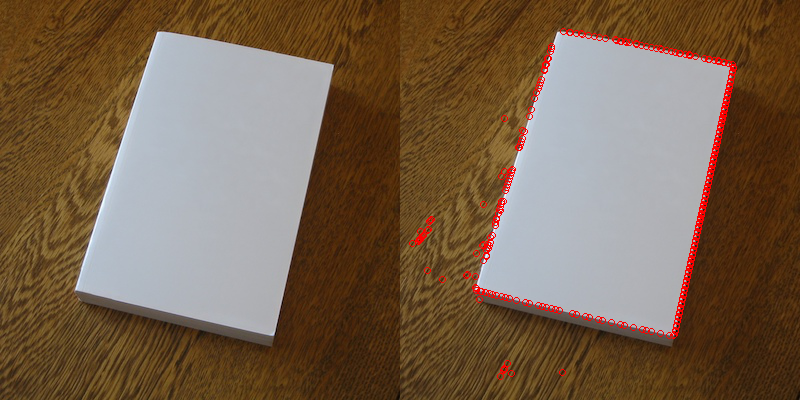
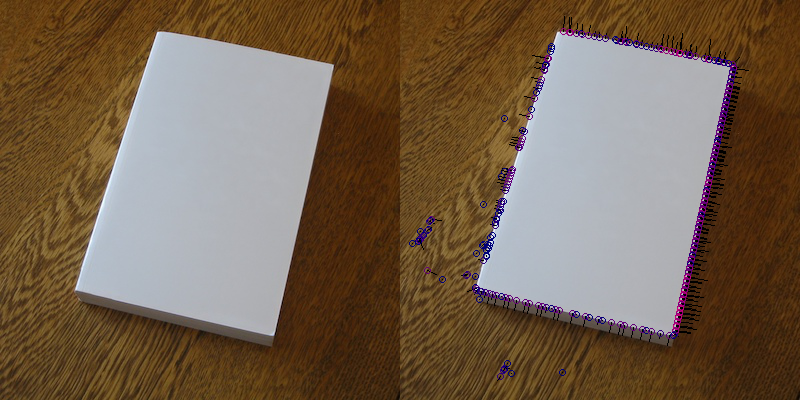
refactor fast moment calculations:

diff --git a/src/fast.rs b/src/fast.rs
@@ -1,7 +1,18 @@
-use image::{GenericImageView, ImageError, DynamicImage, ImageBuffer, Rgb};
+use image::{GenericImageView, ImageError, DynamicImage, ImageBuffer, Rgb, GrayImage};
+use imageproc::drawing::draw_line_segment_mut;
+use cgmath::prelude::*;
+use cgmath::{Rad};
 
 // Types
 pub type Point = (i32, i32);
+
+// Make a trait for FastKeypoint/OrientedFastKeypoint
+#[derive(Debug)]
+pub struct FastKeypoint {
+    pub location: Point,
+    pub score: u32,
+    pub moment: Moment
+}
 
 #[derive(Debug)]
 pub struct FastContext {
@@ -9,7 +20,7 @@ pub struct FastContext {
     fast: Vec<u8>,
     slow: Vec<u8>,
     radius: u32,
-    n: u8
+    n: u32
 }
 
 #[allow(non_camel_case_types)]
@@ -50,7 +61,7 @@ impl FastType {
 }
 
 // Consts
-const DEFAULT_THRESHOLD:i16 = 50;
+const DEFAULT_THRESHOLD:i16 = 40;
 
 // Methods
 fn get_circle_slice(ctx: &FastContext, x: i32, y:i32) -> Vec<Point> {
@@ -61,12 +72,12 @@ fn get_circle_slice(ctx: &FastContext, x: i32, y:i32) -> Vec<Point> {
         .collect()
 }
 
-pub fn fast(img: &image::GrayImage, fast_type: Option<FastType>, threshold: Option<i16>) -> Result<Vec<Point>, ImageError> {
+pub fn fast(img: &image::GrayImage, fast_type: Option<FastType>, threshold: Option<i16>) -> Result<Vec<FastKeypoint>, ImageError> {
     let threshold = threshold.unwrap_or(DEFAULT_THRESHOLD);
     let fast_type = fast_type.unwrap_or(FastType::TYPE_9_16);
 
     let ctx = fast_type.get_context();
-    let indices_len = (ctx.fast.len() + ctx.slow.len()) as u8;
+    let indices_len = (ctx.fast.len() + ctx.slow.len()) as u32;
     let max_misses = indices_len - ctx.n;
 
     let mut fast_keypoint_matches = Vec::new();
@@ -86,7 +97,7 @@ pub fn fast(img: &image::GrayImage, fast_type: Option<FastType>, threshold: Opti
             // TODO: use unsafe variant or direct buffer addressing
             //
 
-            let mut similars = 0;
+            let mut similars:u32 = 0;
             for index in 0..ctx.fast.len() {
                 let diff = (circle_pixels[ctx.fast[index] as usize] - center_pixel).abs();
                 if diff < threshold {
@@ -108,18 +119,112 @@ pub fn fast(img: &image::GrayImage, fast_type: Option<FastType>, threshold: Opti
                 }
             }
 
-            fast_keypoint_matches.push((x as i32, y as i32));
+            fast_keypoint_matches.push( FastKeypoint {
+                location: (x as i32, y as i32),
+                score: indices_len - similars,
+                moment: Moment {
+                    centroid: (0, 0),
+                    moment: (0, 0),
+                    rotation: 0.0
+                }
+            });
         }
     }
 
     Ok(fast_keypoint_matches)
 }
 
-pub fn draw_keypoints(img: &mut image::RgbImage, vec: &Vec<Point>) {
+//
+// FAST Moment Calculations
+//
+
+#[derive(Debug)]
+pub struct Moment {
+    centroid: Point,
+    moment: Point,
+    rotation: f64
+}
+
+fn patch_moment(img: &GrayImage, x:u32, y:u32, x_moment:u32, y_moment:u32, moment_radius:Option<u32>) -> f32 {
+    let moment_radius = moment_radius.unwrap_or(3);
+
+    if x < moment_radius || y < moment_radius {
+        return 1.0;
+    }
+
+    let mut patch_sum:u32 = 0;
+    for mx in (x-moment_radius)..=(x+moment_radius) {
+        for my in (y-moment_radius)..=(y+moment_radius) {
+            patch_sum += mx.pow(x_moment) * my.pow(y_moment) * img.get_pixel(mx, my).0[0] as u32;
+        }
+    }
+
+    patch_sum as f32
+}
+
+fn moment_centroid(img: &GrayImage, x:i32, y:i32, moment_radius:Option<u32>) -> Moment {
+    // TODO weed out the repeated calculations here
+    let p_m = patch_moment(img, x as u32, y as u32, 0, 0, moment_radius);
+    let p_x = patch_moment(img, x as u32, y as u32, 1, 0, moment_radius);
+    let p_y = patch_moment(img, x as u32, y as u32, 0, 1, moment_radius);
+
+    let (mx, my) = (
+        (p_x/p_m),
+        (p_y/p_m)
+    );
+
+    let x_diff = (x as f32 - mx) as f64;
+    let y_diff = (y as f32 - my) as f64;
+
+    Moment {
+        centroid: (x as i32, y as i32),
+        moment: (mx.round() as i32, my.round() as i32),
+        rotation: y_diff.atan2(x_diff)
+    }
+}
+
+pub fn calculate_fast_centroids(img: &GrayImage, fast_keypoints: &mut Vec<FastKeypoint>) {
+    for keypoint in fast_keypoints.iter_mut() {
+        keypoint.moment = moment_centroid(img, keypoint.location.0, keypoint.location.1, None);
+    }
+}
+
+pub fn draw_keypoints(img: &mut image::RgbImage, vec: &Vec<FastKeypoint>) {
     let ctx = FastType::TYPE_9_16.get_context();
     let color = [255, 0, 0];
-    for (x, y) in vec {
-        for (c_x, c_y) in get_circle_slice(&ctx, *x, *y) {
+    for k in vec {
+        for (c_x, c_y) in get_circle_slice(&ctx, k.location.0, k.location.1) {
+            img.get_pixel_mut(c_x as u32, c_y as u32).0 = color;
+        }
+    }
+}
+
+pub fn draw_moments(img: &mut image::RgbImage, vec: &Vec<FastKeypoint>) {
+    let ctx = FastType::TYPE_9_16.get_context();
+
+    for k in vec {
+        let score = (k.score - 12) as u8;
+        let color = [50 * score, 0, 122];
+
+
+        let start_point = k.location;
+
+        let rotation_radians = Rad(k.moment.rotation);
+        let dist = (score * 5) as f64;
+
+        let end_point = (
+            start_point.0 as f32 + (dist * Rad::cos(rotation_radians)).round() as f32,
+            start_point.1 as f32 + (dist * Rad::sin(rotation_radians)).round() as f32
+        );
+
+        draw_line_segment_mut(
+            img,
+            (start_point.0 as f32, start_point.1 as f32),
+            end_point,
+            Rgb([0, 0, 0])
+        );
+
+        for (c_x, c_y) in get_circle_slice(&ctx, k.location.0, k.location.1) {
             img.get_pixel_mut(c_x as u32, c_y as u32).0 = color;
         }
     }

diff --git a/src/orb.rs b/src/orb.rs
@@ -1,66 +1,14 @@
 use image::{ImageError, GenericImageView, DynamicImage, ImageBuffer, Rgb, GrayImage, ImageFormat, RgbImage};
 use image::imageops::{resize, FilterType, blur, filter3x3};
-use imageproc::drawing::draw_line_segment_mut;
 use rand::{Rng, thread_rng};
 // Move to rand_distr crate (rand::_::Normal is deprecated)
 use rand::distributions::{Normal, Distribution};
 use bitvector::BitVector;
 
 use crate::fast;
-use fast::Point;
+use fast::{Point, FastKeypoint, Moment, };
 
 const DEFAULT_BRIEF_LENGTH:usize = 128;
-
-fn patch_moment(img: &GrayImage, x:u32, y:u32, x_moment:u32, y_moment:u32, moment_radius:Option<u32>) -> f32 {
-    let moment_radius = moment_radius.unwrap_or(3);
-
-    if x < moment_radius || y < moment_radius {
-        return 1.0;
-    }
-
-    let mut patch_sum:u32 = 0;
-    for mx in (x-moment_radius)..=(x+moment_radius) {
-        for my in (y-moment_radius)..=(y+moment_radius) {
-            patch_sum += mx.pow(x_moment) * my.pow(y_moment) * img.get_pixel(mx, my).0[0] as u32;
-        }
-    }
-
-    patch_sum as f32
-}
-
-//
-// Moment Calculations
-//
-
-#[derive(Debug)]
-pub struct Moment {
-    p: Point,
-    x: u32,
-    y: u32,
-    rot: f64
-}
-
-fn moment_centroid(img: &GrayImage, x:u32, y:u32, moment_radius:Option<u32>) -> Moment {
-    // TODO weed out the repeated calculations here
-    let p_m = patch_moment(img, x as u32, y as u32, 0, 0, moment_radius);
-    let p_x = patch_moment(img, x as u32, y as u32, 1, 0, moment_radius);
-    let p_y = patch_moment(img, x as u32, y as u32, 0, 1, moment_radius);
-
-    let (mx, my) = (
-        (p_x/p_m),
-        (p_y/p_m)
-    );
-
-    let x_diff = (x as f32 - mx) as f64;
-    let y_diff = (y as f32 - my) as f64;
-
-    Moment {
-        p: (x as i32, y as i32),
-        x: mx.round() as u32,
-        y: my.round() as u32,
-        rot: y_diff.atan2(x_diff)
-    }
-}
 
 //
 // Sobel Calculations
@@ -115,7 +63,7 @@ fn brief_distance(brief1: &Brief, brief2: &Brief) -> usize {
     brief1.b.intersection(&brief2.b).len()
 }
 
-fn brief(blurred_img: &GrayImage, vec: &Vec<Moment>, brief_length: Option<usize>, n: Option<usize>) -> Vec<Brief> {
+fn brief(blurred_img: &GrayImage, vec: &Vec<FastKeypoint>, brief_length: Option<usize>, n: Option<usize>) -> Vec<Brief> {
     let brief_length = brief_length.unwrap_or(DEFAULT_BRIEF_LENGTH);
     let n = n.unwrap_or(5);
 
@@ -127,17 +75,17 @@ fn brief(blurred_img: &GrayImage, vec: &Vec<Moment>, brief_length: Option<usize>
     let height:i32 = blurred_img.height() as i32;
 
     vec.into_iter()
-        .map(|m| {
+        .map(|k| {
             let mut bit_vec = BitVector::new(brief_length);
 
             for i in 0..bit_vec.capacity() {
                 let mut p1 = (
-                    m.p.0 + inner_dist.sample(&mut thread_rng()).round() as i32,
-                    m.p.1 + inner_dist.sample(&mut thread_rng()).round() as i32
+                    k.location.0 + inner_dist.sample(&mut thread_rng()).round() as i32,
+                    k.location.1 + inner_dist.sample(&mut thread_rng()).round() as i32
                 );
                 let mut p2 = (
-                    m.p.0 + outer_dist.sample(&mut thread_rng()).round() as i32,
-                    m.p.1 + outer_dist.sample(&mut thread_rng()).round() as i32
+                    k.location.0 + outer_dist.sample(&mut thread_rng()).round() as i32,
+                    k.location.1 + outer_dist.sample(&mut thread_rng()).round() as i32
                 );
 
                 p1.0 = std::cmp::max(std::cmp::min(p1.0, width - 1), 0);
@@ -154,8 +102,8 @@ fn brief(blurred_img: &GrayImage, vec: &Vec<Moment>, brief_length: Option<usize>
             }
 
             Brief {
-                x: m.p.0,
-                y: m.p.1,
+                x: k.location.0,
+                y: k.location.1,
                 b: bit_vec
             } 
         })
@@ -167,29 +115,18 @@ fn brief(blurred_img: &GrayImage, vec: &Vec<Moment>, brief_length: Option<usize>
 //
 
 // load image and pass around reference to image instead of loading from path
-pub fn orb(img: &GrayImage) -> Result<Vec<Moment>, ImageError> {
-    let keypoints = fast::fast(img, None, None)?;
+pub fn orb(img: &GrayImage) -> Result<Vec<FastKeypoint>, ImageError> {
+    // let keypoints = fast::fast(img, None, None)?;
 
-    let centroids = keypoints
-        .into_iter()
-        .map(|(x, y)| moment_centroid(&img, x as u32, y as u32, None))
-        .collect::<Vec<Moment>>();
+    // let centroids = keypoints
+    //     .into_iter()
+    //     .map(|k| moment_centroid(&img, x as u32, y as u32, None))
+    //     .collect::<Vec<Moment>>();
 
-    let blurred_img = blur(img, 2.5);
-    let brief_descriptors = brief(&blurred_img, &centroids, None, None);
+    // let blurred_img = blur(img, 2.5);
+    // let brief_descriptors = brief(&blurred_img, &centroids, None, None);
+    // Ok(centroids)
+    
+    let centroids:Vec<FastKeypoint> = vec![];
     Ok(centroids)
-}
-
-pub fn draw_moments(img: &mut RgbImage, vec: &Vec<Moment>) {
-    for moment in vec {
-        draw_line_segment_mut(
-            img,
-            (moment.p.0 as f32, moment.p.1 as f32), 
-            (moment.x as f32, moment.y as f32),
-            Rgb([122, 122, 122])
-        );
-
-        img.get_pixel_mut(moment.x as u32, moment.y as u32).0 = [255, 255, 255];
-        img.get_pixel_mut(moment.p.0 as u32, moment.p.1 as u32).0 = [0, 0, 0];
-    }
 }

diff --git a/src/main.rs b/src/main.rs
@@ -4,25 +4,21 @@ mod orb;
 mod fast;
 
 fn main() {
-    println!("{:?}", test_orb());
+    println!("{:?}", test_fast());
 }
 
 fn test_fast() -> Result<bool, image::ImageError> {
-    let mut img = image::open("example/run.jpg")?;
+    let mut img = image::open("example/test.jpg")?;
     let mut gray_img = img.to_luma();
     let mut img = img.to_rgb();
-    let keypoints = fast::fast(&gray_img, Some(fast::FastType::TYPE_9_16), None).unwrap();
-    fast::draw_keypoints(&mut img, &keypoints);
-    img.save_with_format("example/run.png", image::ImageFormat::Png)?;
 
-    Ok(true)
-}
-
-fn test_orb() -> Result<bool, image::ImageError> {
-    let mut img = image::open("example/run.jpg")?.to_luma();
-    let keypoints = orb::orb(&img)?;
-    //orb::draw_moments(&mut img, &keypoints);
-    //img.save_with_format("example/run.png", image::ImageFormat::Png)?;
+    let mut keypoints = fast::fast(&gray_img, Some(fast::FastType::TYPE_9_16), None).unwrap();
+    fast::calculate_fast_centroids(&gray_img, &mut keypoints);
+    
+    fast::draw_moments(&mut img, &keypoints);
+    //orb::draw_moments(&mut img, &centroids);
+    //fast::draw_keypoints(&mut img, &keypoints);
+    img.save_with_format("example/test.png", image::ImageFormat::Png)?;
 
     Ok(true)
 }

diff --git a/README.md b/README.md
@@ -9,11 +9,15 @@ use image;
 use orbrs;
 
 fn test() {
-    let fast_keypoints = orbrs::fast::fast("example/test.jpg", fast::FastType::TYPE_9_16, None).unwrap();
+    let mut img = image::open("example/test.jpg").unwrap().to_rgb();
+    let mut gray_img = img.to_luma();
+
+    let fast_keypoints = orbrs::fast::fast(&gray_img, Some(fast::FastType::TYPE_9_16), None).unwrap();
+    orbrs::fast::calculate_fast_centroids(&gray_img, &mut fast_keypoints);
 
     // draw the keypoints on the image
-    let mut img = image::open("example/test.jpg").unwrap().to_rgb();
-    orbrs::fast::draw_keypoints(&mut img, &fast_keypoints);
+    
+    orbrs::fast::draw_moments(&mut img, &fast_keypoints);
     img.save_with_format("example/fast_output.png", image::ImageFormat::Png);
 }
 ```
